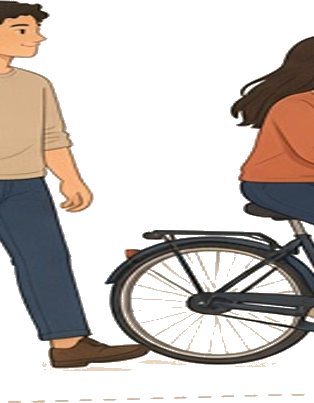
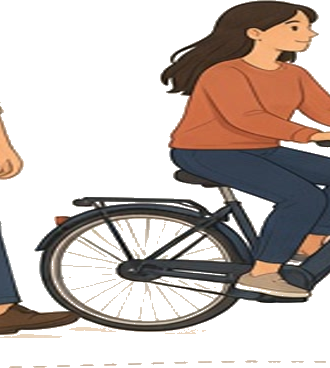
Mobhero v5: Bewaard/Kompas crops, career stub and duplicate lead fix (#728).

diff --git a/Jobsy.Web/wwwroot/css/features/carriere.css b/Jobsy.Web/wwwroot/css/features/carriere.css
@@ -27,7 +27,8 @@
 
 @media (max-width: 639px) {
   /* Hero toont al Career.Empty.Title; geen dubbele h1 in de kaart. */
-  .career-page--illustrated:has(> .cand-hero) .career-card--empty #career-title {
+  .career-page--illustrated:has(> .cand-hero) .career-card--empty #career-title,
+  .career-page--illustrated:has(> .cand-hero) .career-card--empty .career-card__lead {
     position: absolute;
     width: 1px;
     height: 1px;

diff --git a/Jobsy.Web/wwwroot/css/features/candidate-illustrated-app.css b/Jobsy.Web/wwwroot/css/features/candidate-illustrated-app.css
@@ -279,6 +279,12 @@
     pointer-events: none;
   }
 
+  /* Kompas: tall portrait mob crop — fill ~80–95% of hero height */
+  .cand-hero--kompas-band.cand-hero--with-art .cand-hero__mob-figures {
+    max-height: 92%;
+    max-width: min(100%, 10.5rem);
+  }
+
   .cand-hero--with-art .cand-hero__copy {
     position: relative;
     z-index: 3;

diff --git a/Jobsy.Tests/CandidateIllustratedPagesScreenshotTests.cs b/Jobsy.Tests/CandidateIllustratedPagesScreenshotTests.cs
@@ -40,6 +40,7 @@ public sealed class CandidateIllustratedPagesScreenshotTests : IAsyncLifetime
     private const string ArtifactsDirMobhero = "/opt/cursor/artifacts/kandidaat-728-mobhero";
     private const string ArtifactsDirMobheroV3 = "/opt/cursor/artifacts/kandidaat-728-mobhero-v3";
     private const string ArtifactsDirMobheroV4 = "/opt/cursor/artifacts/kandidaat-728-mobhero-v4";
+    private const string ArtifactsDirMobheroV5 = "/opt/cursor/artifacts/kandidaat-728-mobhero-v5";
     private static readonly Rgb24 PearlReference = new(247, 244, 240);
     private static readonly Guid SampleVacancyId = Guid.Parse("11111111-1111-1111-1111-111111111111");
     private static readonly Guid PhotoVacancyId = Guid.Parse("22222222-2222-2222-2222-222222222222");
@@ -1180,6 +1181,107 @@ public sealed class CandidateIllustratedPagesScreenshotTests : IAsyncLifetime
         Console.WriteLine(mobReports);
     }
 
+    [Fact]
+    public async Task Capture_kandidaat_728_mobhero_v5_delivery_pngs()
+    {
+        Directory.CreateDirectory(ArtifactsDirMobheroV5);
+
+        var deliveryWeb = new IllustratedPagesWebFactory();
+        _ = deliveryWeb.ServerAddress;
+
+        var mobReports = new StringBuilder();
+
+        await using (var emptyWeb = new IllustratedPagesWebFactory(emptyAppsAndLikes: true))
+        {
+            _ = emptyWeb.ServerAddress;
+            await CaptureMobheroViewportAsync(
+                ArtifactsDirMobheroV5,
+                emptyWeb.ServerAddress,
+                "/candidate/applications",
+                "sollicitaties-leeg",
+                WaitForApplicationsEmptyAsync);
+
+            await CaptureMobheroViewportAsync(
+                ArtifactsDirMobheroV5,
+                emptyWeb.ServerAddress,
+                "/candidate/liked",
+                "bewaard-leeg",
+                WaitForSavedEmptyAsync);
+        }
+
+        await CaptureMobheroViewportAsync(
+            ArtifactsDirMobheroV5,
+            deliveryWeb.ServerAddress,
+            "/candidate/paspoort",
+            "kompas-tip",
+            PrepareKompasTopScreenshotAsync);
+
+        await CaptureMobheroViewportAsync(
+            ArtifactsDirMobheroV5,
+            deliveryWeb.ServerAddress,
+            "/candidate/settings?pane=mail",
+            "instellingen",
+            WaitForSettingsMailPaneAsync);
+
+        await CaptureMobheroViewportAsync(
+            ArtifactsDirMobheroV5,
+            deliveryWeb.ServerAddress,
+            "/vacancies/" + SampleVacancyId,
+            "vacature",
+            WaitForVacancyDetailAsync,
+            heroSelector: ".kb-detail__hero");
+
+        await CaptureMobheroViewportAsync(
+            ArtifactsDirMobheroV5,
+            deliveryWeb.ServerAddress,
+            "/carriere",
+            "carriere-leeg",
+            WaitForCareerEmptyAsync);
+
+        await AssertMobheroLeadNotTruncatedAsync(deliveryWeb.ServerAddress, emptyApps: true);
+
+        foreach (var name in new[]
+                 {
+                     "sollicitaties-leeg", "bewaard-leeg", "kompas-tip", "instellingen", "vacature", "carriere-leeg"
+                 })
+        {
+            var pngPath = Path.Combine(ArtifactsDirMobheroV5, $"{name}-390.png");
+            var metaPath = Path.Combine(ArtifactsDirMobheroV5, $"{name}-390-hero-meta.txt");
+            var report = ValidateMobileHeroPixels390(
+                await File.ReadAllBytesAsync(pngPath),
+                name,
+                gateV4: true,
+                heroMetaPath: File.Exists(metaPath) ? metaPath : null,
+                mobArtifactsDir: ArtifactsDirMobheroV5);
+            mobReports.AppendLine(report);
+        }
+
+        var mobReportPath = Path.Combine(ArtifactsDirMobheroV5, "mobhero-pixel-gate-v5-390.txt");
+        await File.WriteAllTextAsync(mobReportPath, mobReports.ToString());
+
+        foreach (var name in new[]
+                 {
+                     "sollicitaties-leeg", "bewaard-leeg", "kompas-tip", "instellingen", "vacature", "carriere-leeg"
+                 })
+        {
+            var pngPath = Path.Combine(ArtifactsDirMobheroV5, $"{name}-390.png");
+            var metaPath = Path.Combine(ArtifactsDirMobheroV5, $"{name}-390-hero-meta.txt");
+            var report = ValidateMobileHeroPixels390(
+                await File.ReadAllBytesAsync(pngPath),
+                name,
+                gateV4: true,
+                heroMetaPath: File.Exists(metaPath) ? metaPath : null,
+                mobArtifactsDir: ArtifactsDirMobheroV5);
+            Assert.DoesNotContain("PASS=False", report, StringComparison.Ordinal);
+        }
+
+        await deliveryWeb.DisposeAsync();
+
+        var pngs = Directory.GetFiles(ArtifactsDirMobheroV5, "*.png");
+        Assert.Equal(6, pngs.Length);
+        Console.WriteLine(mobReports);
+    }
+
     private async Task AssertMobheroLeadNotTruncatedAsync(string serverAddress, bool emptyApps = false)
     {
         async Task CheckLeadAsync(string address, (string path, Func<IPage, int, Task> prepare)[] paths)
@@ -1489,6 +1591,8 @@ public sealed class CandidateIllustratedPagesScreenshotTests : IAsyncLifetime
     private static async Task WaitForCareerEmptyAsync(IPage page, int _)
     {
         await page.Locator(".career-page--illustrated .cand-hero").WaitForAsync(new() { Timeout = 60_000 });
+        await page.Locator(".career-card--empty").WaitForAsync(new() { Timeout = 60_000 });
+        await page.Locator(".career-card__error").WaitForAsync(new() { State = WaitForSelectorState.Hidden, Timeout = 60_000 });
     }
 
     private static string ValidateMobileHeroPixels390(
@@ -1496,7 +1600,8 @@ public sealed class CandidateIllustratedPagesScreenshotTests : IAsyncLifetime
         string label,
         bool gateV3 = false,
         bool gateV4 = false,
-        string? heroMetaPath = null)
+        string? heroMetaPath = null,
+        string? mobArtifactsDir = null)
     {
         using var img = Image.Load<Rgb24>(pngBytes);
         var sb = new StringBuilder();
@@ -1797,7 +1902,7 @@ public sealed class CandidateIllustratedPagesScreenshotTests : IAsyncLifetime
 
         if ((gateV3 || gateV4) && isVacature)
         {
-            var vacatureDir = gateV4 ? ArtifactsDirMobheroV4 : ArtifactsDirMobheroV3;
+            var vacatureDir = mobArtifactsDir ?? (gateV4 ? ArtifactsDirMobheroV4 : ArtifactsDirMobheroV3);
             passed = File.Exists(Path.Combine(vacatureDir, "vacature-390.png"));
         }
 
@@ -2518,9 +2623,38 @@ public sealed class CandidateIllustratedPagesScreenshotTests : IAsyncLifetime
                 return """{"available":true,"optedIn":false,"phone":null}""";
             }
 
-            if (path.Contains("/me/career", StringComparison.OrdinalIgnoreCase))
+            if (path.Contains("/career-path/archived", StringComparison.OrdinalIgnoreCase))
             {
-                return """{"hasPlan":true,"dreamTitle":"Dierenarts","currentStoneIndex":1,"stones":[{"title":"Nu","state":"Done"},{"title":"Mbo 4 paraveterinair","state":"Current"}]}""";
+                return "[]";
+            }
+
+            if (path.Contains("/career-path/dream-options", StringComparison.OrdinalIgnoreCase))
+            {
+                return """
+                    {
+                      "suggestions": [
+                        { "catalogKey": "dierenarts", "title": "Dierenarts", "reasonKey": "CareerDream.Reason.Test" },
+                        { "catalogKey": "verpleegkundige", "title": "Verpleegkundige", "reasonKey": "CareerDream.Reason.Wish" },
+                        { "catalogKey": "logistiek_medewerker", "title": "Logistiek medewerker", "reasonKey": "CareerDream.Reason.Test" }
+                      ],
+                      "results": []
+                    }
+                    """;
+            }
+
+            if (path.Contains("/career-path", StringComparison.OrdinalIgnoreCase))
+            {
+                return """{"dreamTitle":"","steps":[]}""";
+            }
+
+            if (path.Contains("/career-interests", StringComparison.OrdinalIgnoreCase))
+            {
+                return """{"realistic":72,"investigative":58,"artistic":41,"social":80,"enterprising":55,"conventional":48}""";
+            }
+
+            if (path.Contains("/me/onboarding", StringComparison.OrdinalIgnoreCase))
+            {
+                return """{"isComplete":true,"currentStep":6,"totalSteps":6}""";
             }
 
             if (path.Contains("/applications", StringComparison.OrdinalIgnoreCase))

diff --git a/Jobsy.Web/Hosting/PageAssetCatalog.cs b/Jobsy.Web/Hosting/PageAssetCatalog.cs
@@ -35,7 +35,7 @@ public static class PageAssetCatalog
     [
         "css/features/banenkaart.css?v=20261018-02",
         "css/features/banenkaart-illustrated.css?v=20261018-14",
-        "css/features/candidate-illustrated-app.css?v=20261018-78",
+        "css/features/candidate-illustrated-app.css?v=20261018-84",
         "css/features/kandidaat-banen.css?v=20261017-04",
         "css/features/match-desktop.css?v=20261018-02",
         "css/features/applications.css?v=20261004-10",
@@ -59,7 +59,7 @@ public static class PageAssetCatalog
         "css/features/kompas-illustrated.css?v=20261018-05",
         "css/features/ontdekkingsreis.css?v=20261015-21",
         "css/features/tests.css?v=20261018-04",
-        "css/features/carriere.css?v=20261018-02",
+        "css/features/carriere.css?v=20261018-03",
         "css/features/occupation-day.css?v=20261005-23",
         "css/features/honest-advice.css?v=20261005-07",
         "css/features/future-jobs.css?v=20261006-02",

diff --git a/scripts/hero-mobile-figures.py b/scripts/hero-mobile-figures.py
@@ -88,8 +88,8 @@ SCENES: dict[str, dict] = {
     },
     "vervoer-profession-wide.jpg": {
         "out": "vervoer-mob-figures.png",
-        # Left: cyclist + passenger, full figures (not wheel-only)
-        "box": (198, 12, 512, 698),
+        # One complete cyclist (head to wheel), Bewaard band
+        "box": (268, 72, 598, 712),
     },
     "beschikbaarheid-profession-wide.jpg": {
         "out": "beschikbaarheid-mob-figures.png",
@@ -98,8 +98,8 @@ SCENES: dict[str, dict] = {
     },
     "kompas-hero-wide.jpg": {
         "out": "kompas-mob-figures.png",
-        # Family inset (people only), not the wide landscape
-        "box": (8, 248, 518, 692),
+        # Craftsman at bench (~x1500) — one full figure, tall for mob hero
+        "box": (1490, 180, 1710, 500),
     },
     "droombaan-profession-wide.jpg": {
         "out": "droombaan-mob-figures.png",

diff --git a/Jobsy.Web/Media/CandidateIllustratedImages.cs b/Jobsy.Web/Media/CandidateIllustratedImages.cs
@@ -3,7 +3,7 @@ namespace Jobsy.Web.Media;
 /// <summary>Versioned URLs for candidate-facing illustrated pages (login, start, kompas, banenkaart).</summary>
 public static class CandidateIllustratedImages
 {
-    public const string Version = "20261018-78";
+    public const string Version = "20261018-84";
     private const string Base = $"/images/candidate-illustrated";
 
     public static string Url(string file) => $"{Base}/{file}?v={Version}";
